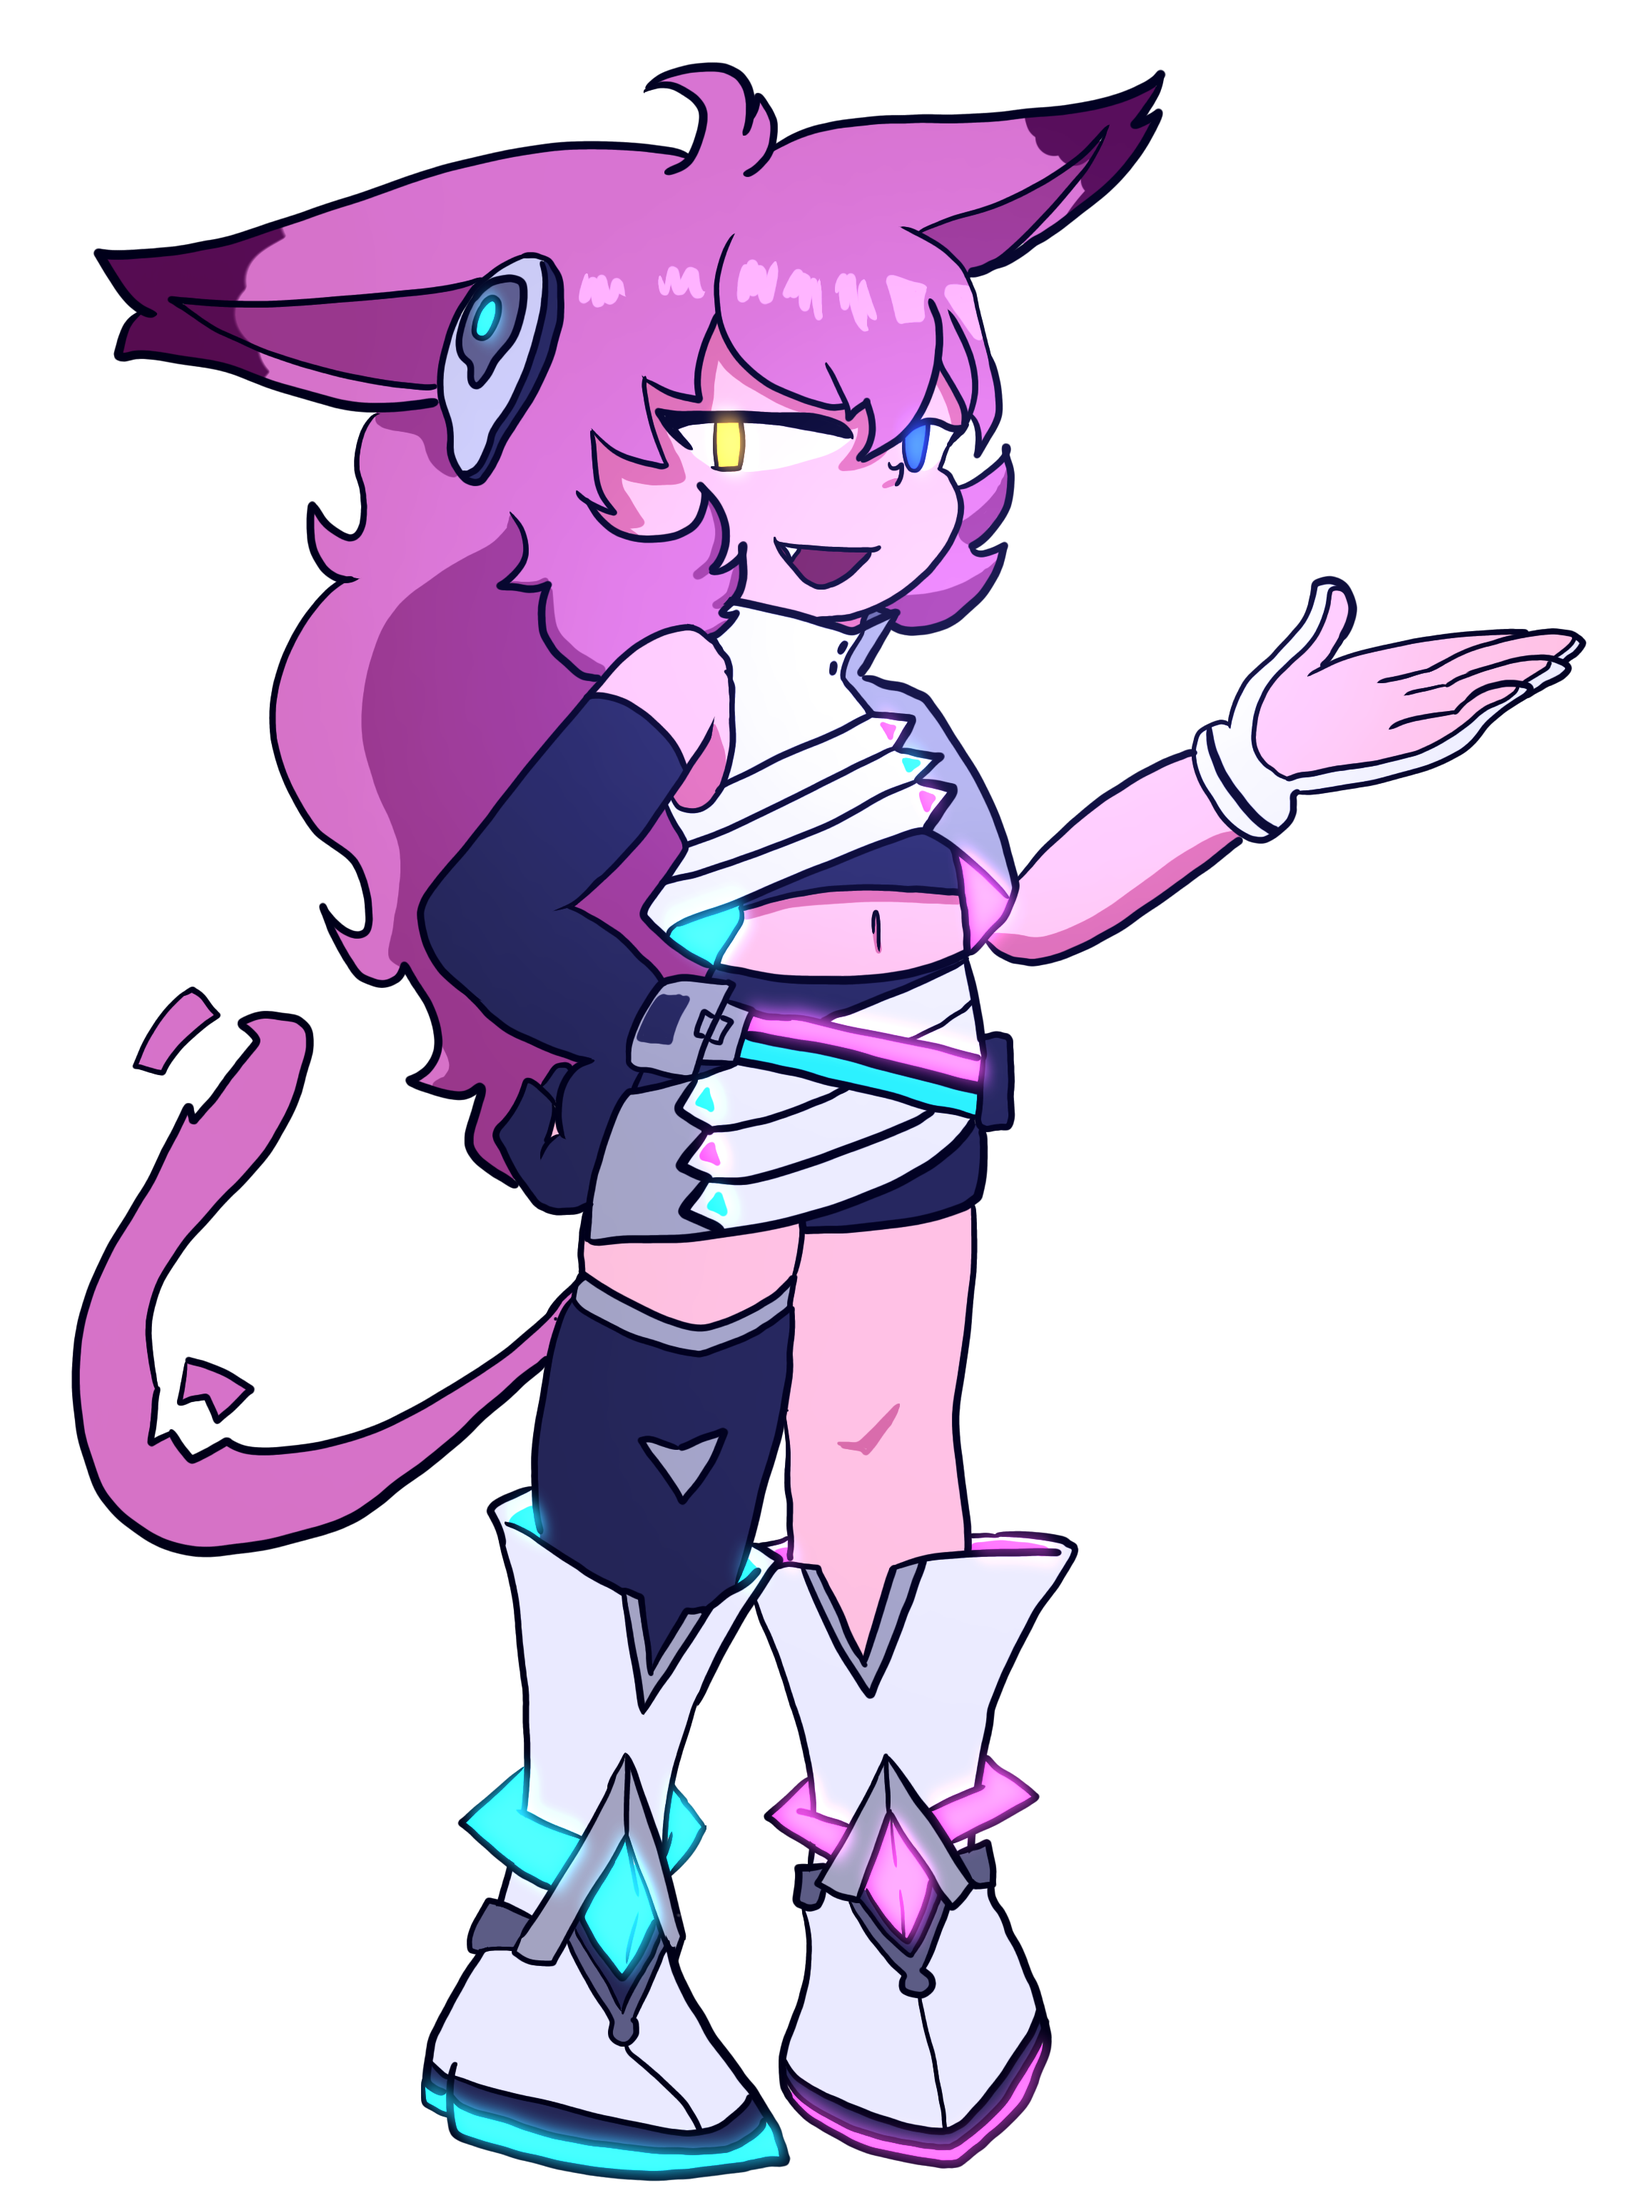
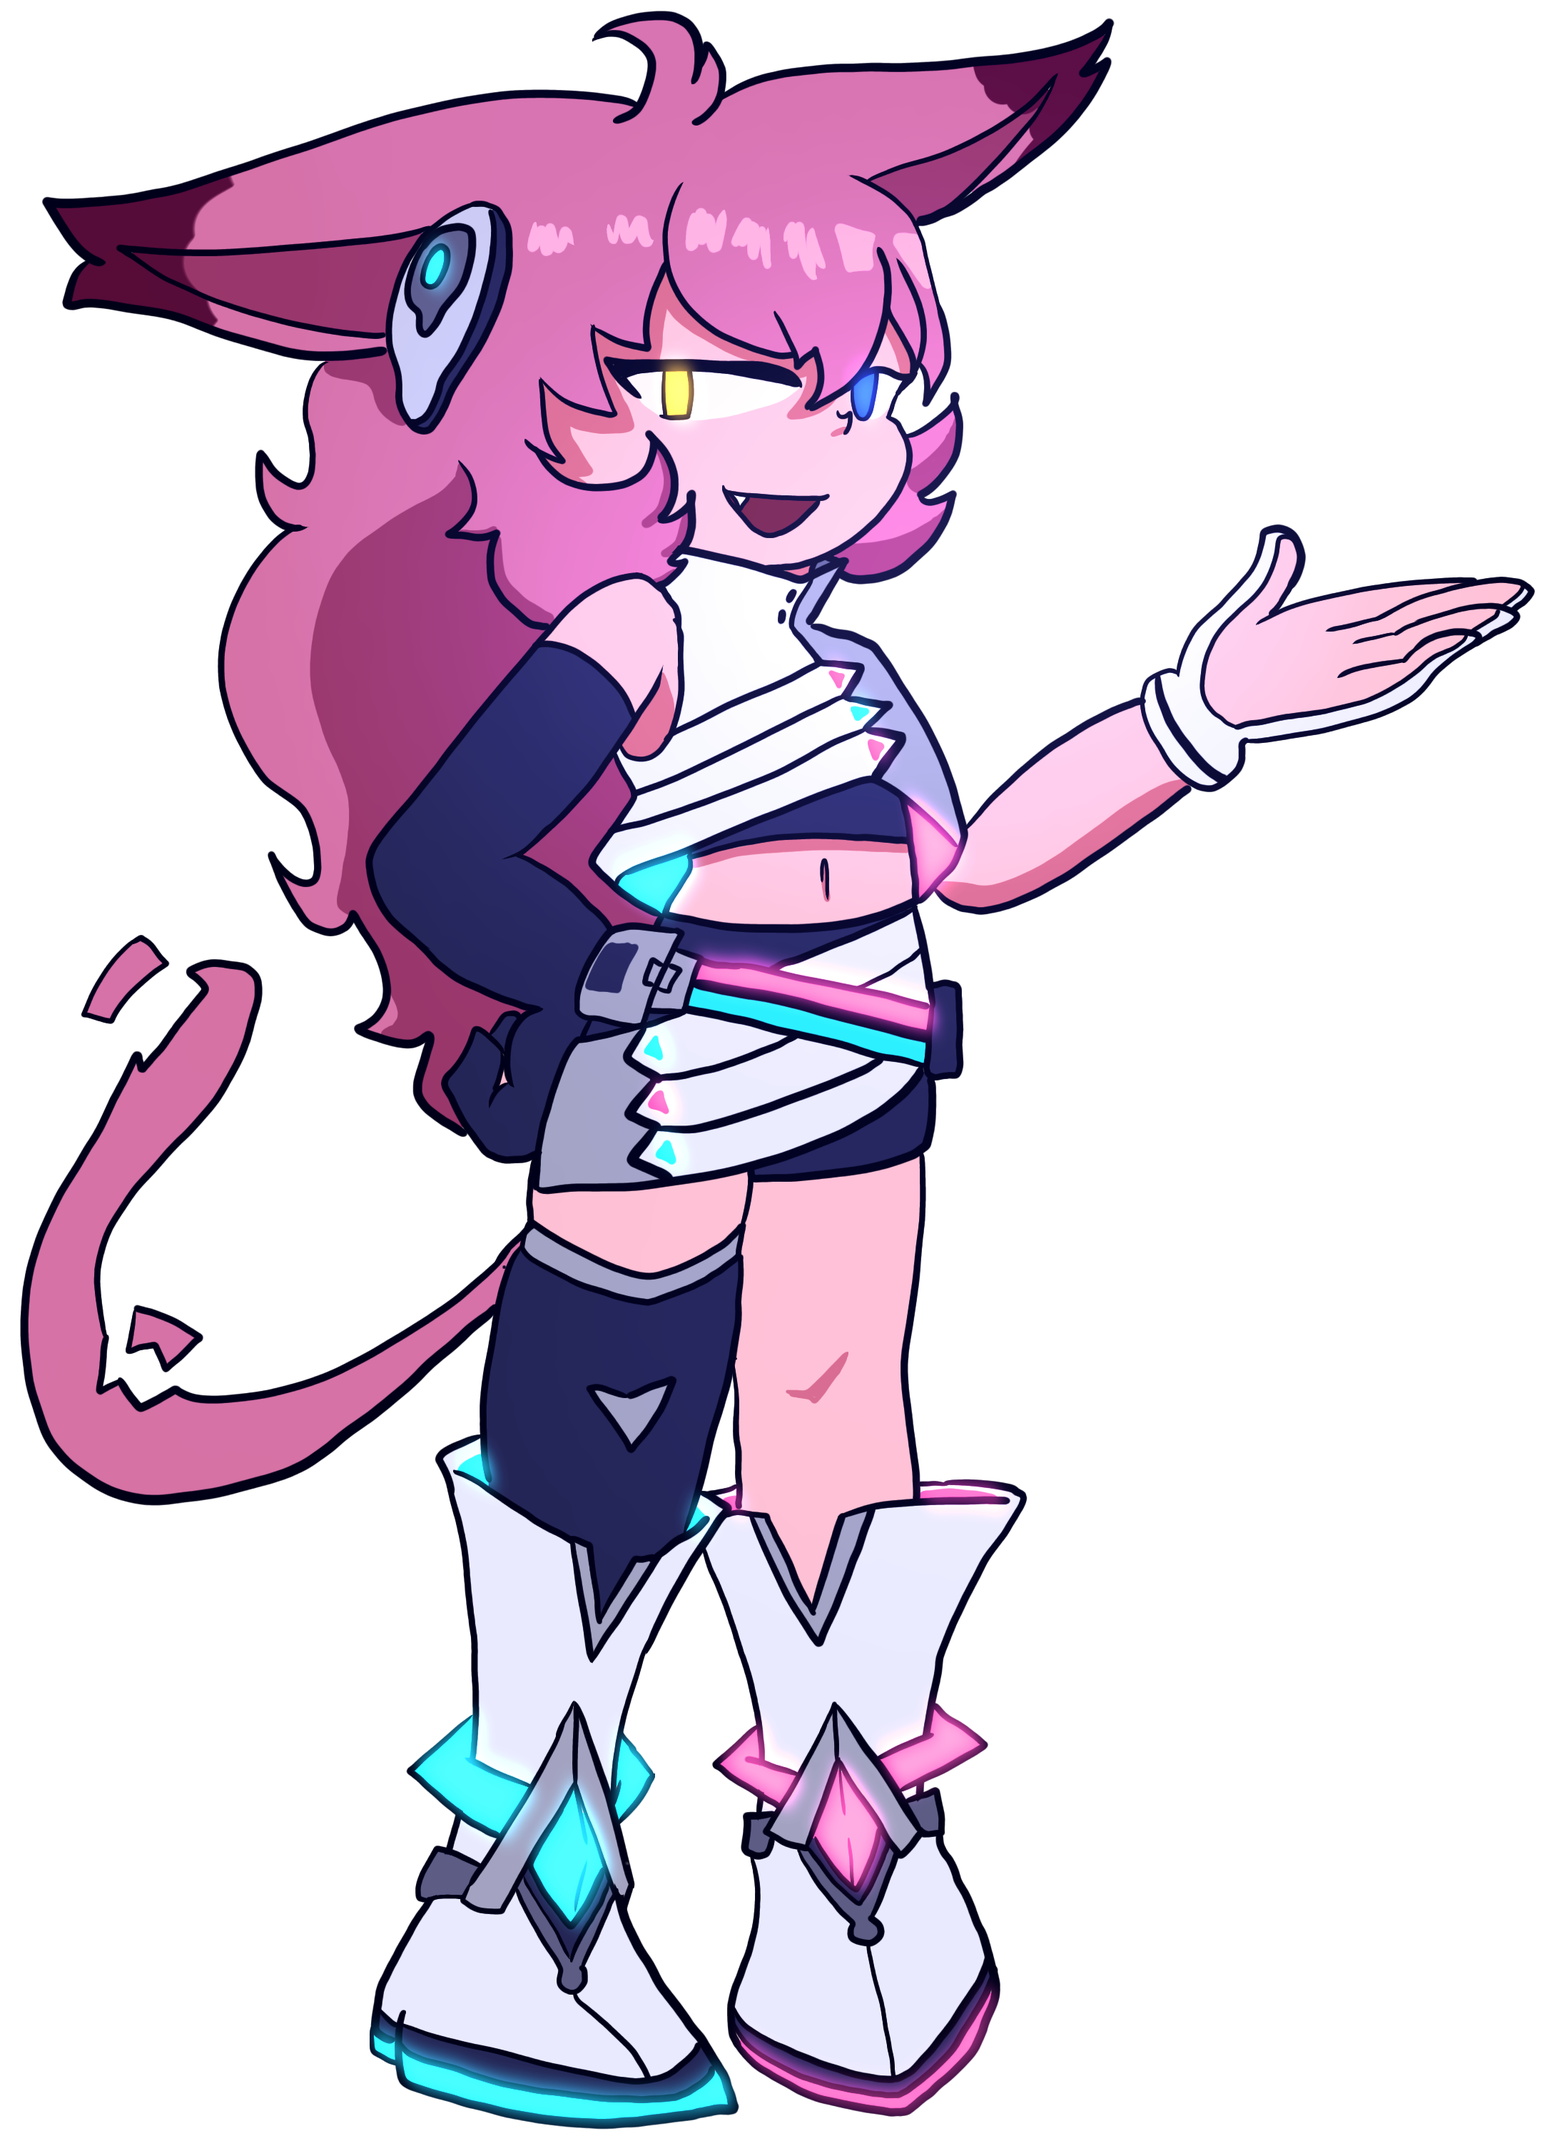
Replaced main Ai.Mi to be a bit warmer
color tone wasnt quite right with the rest of em

Changed region(s): [[0.0, 0.0, 0.9889, 1.0]]

diff --git a/src/pages/Home.tsx b/src/pages/Home.tsx
@@ -64,6 +64,7 @@ export default function HomePage() {
           buttons: [{ label: 'Okay!', variant: 'aimi', dismisses: true }],
         },
         {
+          variant: 'aimi',
           title: 'Need Help? (2/3)',
           message: "You can call me from any page at any time by pressing F6 (or Fn + F6) on your keyboard!",
           image: '/aimi/Custom_Welcome_2.webp',
@@ -111,7 +112,7 @@ export default function HomePage() {
               maskImage: 'linear-gradient(to bottom, black 90%, transparent 100%)',
             }}
           />
-          <div className="text-center py-32 translate-y-4 translate-x-6">
+          <div className="text-center py-32 translate-y-3 translate-x-7">
             <h1 className="text-2xl font-extrabold tracking-tight text-char italic">
               How can I <span className="text-char-accent">help</span>?
             </h1>
